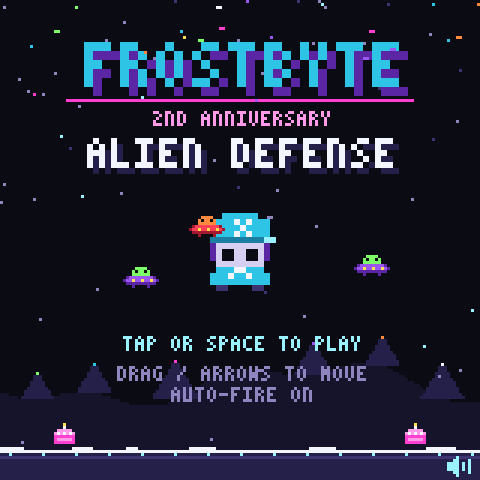
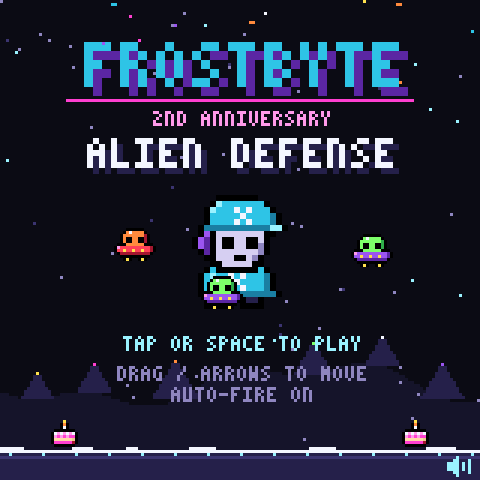
Restyle all characters to match Agent Delta's art
Black 1px outlines, flat colors and a darker right/bottom shade across the
board. New hand-drawn Frostbyte kid and alien saucers; bosses, orbs and
pickups get the outline + shade automatically via sprite() options.
Offsets and hitboxes updated for the new sizes; preview card regenerated.

diff --git a/index.html b/index.html
@@ -78,16 +78,42 @@ const P = {
 const CONFETTI = [P.m, P.c, P.y, P.g, P.P, P.w, P.o];
 
 /* ---------------------------------------------------------------- sprites */
-function sprite(rows, map) {
-  const h = rows.length, w = rows[0].length;
+/* One shared art style, matching Agent Delta's art: 1px black outlines ('Z'),
+   flat colors, one darker shade on the right/bottom edge.
+   sprite(rows, map, { outline, shade }) can add the outline and shade automatically. */
+const darken = (hex, f = 0.68) => '#' + [1, 3, 5].map(i => Math.round(parseInt(hex.slice(i, i + 2), 16) * f).toString(16).padStart(2, '0')).join('');
+const isDark = hex => parseInt(hex.slice(1, 3), 16) + parseInt(hex.slice(3, 5), 16) + parseInt(hex.slice(5, 7), 16) < 90;
+function sprite(rows, map, opt = {}) {
+  let h = rows.length, w = rows[0].length;
+  let g = rows.map(r => [...r].map(ch => { if (map && map[ch]) ch = map[ch]; return ch !== '.' && P[ch] ? P[ch] : null; }));
+  if (opt.shade) {
+    const at = (i, j) => (j >= 0 && j < h && i >= 0 && i < w) ? g[j][i] : null;
+    g = g.map((row, j) => row.map((c, i) => {
+      if (!c || isDark(c)) return c;
+      const edge = !at(i + 1, j) || !at(i, j + 1);
+      return edge && at(i - 1, j) && at(i, j - 1) ? darken(c) : c;
+    }));
+  }
+  if (opt.outline) {
+    const at = (i, j) => (j >= 0 && j < h && i >= 0 && i < w) ? g[j][i] : null;
+    const o = [];
+    for (let j = -1; j <= h; j++) {
+      const row = [];
+      for (let i = -1; i <= w; i++) {
+        const c = at(i, j);
+        row.push(c || (at(i - 1, j) || at(i + 1, j) || at(i, j - 1) || at(i, j + 1) ? '#000000' : null));
+      }
+      o.push(row);
+    }
+    g = o; w += 2; h += 2;
+  }
   const make = (white) => {
     const c = document.createElement('canvas');
     c.width = w; c.height = h;
     const x = c.getContext('2d');
     for (let j = 0; j < h; j++) for (let i = 0; i < w; i++) {
-      let ch = rows[j][i];
-      if (map && map[ch]) ch = map[ch];
-      if (ch !== '.' && P[ch]) { x.fillStyle = white ? '#ffffff' : P[ch]; x.fillRect(i, j, 1, 1); }
+      const col = g[j][i];
+      if (col) { x.fillStyle = white && !isDark(col) ? '#ffffff' : col; x.fillRect(i, j, 1, 1); }
     }
     return c;
   };
@@ -95,63 +121,81 @@ function sprite(rows, map) {
   return c;
 }
 const pad = (s, n) => { const l = (n - s.length) >> 1; return '.'.repeat(l) + s + '.'.repeat(n - s.length - l); };
+const STYLE = { outline: true, shade: true };
 
 function OVERLORD_ROWS(open) {
   return [
     pad('y...y...y', 23), pad('yy..yyy..yy', 23), pad('yyyyyyyyyyy', 23), pad('yryyyCyyyry', 23),
     pad('g'.repeat(13), 23), pad('g'.repeat(17), 23), pad('g'.repeat(19), 23),
-    pad('gkwkkkgggggggkkkwkg', 23), pad('gGkkkkkgggggkkkkkGg', 23), pad('gggGkkkkgggkkkkGggg', 23),
-    pad('g'.repeat(17), 23), pad(open ? 'gggggmkkkmggggg' : 'ggggggmmmgggggg', 23),
+    pad('gZwZZZgggggggZZZwZg', 23), pad('gGZZZZZgggggZZZZZGg', 23), pad('gggGZZZZgggZZZZGggg', 23),
+    pad('g'.repeat(17), 23), pad(open ? 'gggggmZZZmggggg' : 'ggggggZZZgggggg', 23),
     pad('g'.repeat(13), 23), pad('g'.repeat(11), 23), pad('G'.repeat(9), 23),
     pad('P'.repeat(15), 23), pad('PpPpPpPpPpPpPpPpP', 23),
   ];
 }
+// Frostbyte kid: cyan cap with a snowflake (brim to the right), purple hair, snowflake hoodie
 const PLAYER_ROWS = [
-  '...cccccc...',
-  '..cccwcwccc.',
-  '..ccccwcccc.',
-  '..cccwcwccc.',
-  '.dddddddddCC',
-  '.pssssssssp.',
-  '.pskksskksp.',
-  '.pskksskksp.',
-  '..ssssssss..',
-  '..cccwwccc..',
-  '.cccwccwccc.',
-  '.cccccccccc.',
-  '..NN....NN..',
+  '....ZZZZZZZ.....',
+  '...ZCcccccccZ...',
+  '..ZCcccwcwcccZ..',
+  '..ZcccccwccccdZ.',
+  '..ZccccwcwcccdZ.',
+  '.ZdddddddddddCCZ',
+  '.ZPZssssssssZZ..',
+  'ZPpZsZZssZZsZ...',
+  'ZPpZsZZssZZSZ...',
+  '.ZpZsssssssSZ...',
+  '..ZZsssZZsSZ....',
+  '...ZZsssssZZ....',
+  '..ZcZZZZZZZcZ...',
+  '.ZcCccwcwcccdZ..',
+  '.ZcCcccwccccdZ..',
+  '.ZcCccwcwcccdZ..',
+  '.ZddddddddddddZ.',
+  '..ZnnZ..ZnnZ....',
+  '..ZZZZ..ZZZZ....',
 ];
+// alien popping out of its saucer (A/B = blinking lights + thruster flicker)
+const UFO_A = [
+  '....ZZZZZZ....',
+  '...ZgwggggZ...',
+  '..ZgggggggGZ..',
+  '..ZgZZggZZGZ..',
+  '..ZgZZggZZGZ..',
+  '.ZZZggggggZZZ.',
+  'ZMPPPPPPPPPPpZ',
+  'ZPyPPyPPyPPypZ',
+  '.ZppppppppppZ.',
+  '..ZZZZZZZZZZ..',
+  '...ZoZ..ZoZ...',
+];
+const UFO_B = UFO_A.map((r, j) => j === 7 ? 'ZPPyPPyPPyPPpZ' : j === 10 ? '...ZyZ..ZyZ...' : r);
+const RED = { g: 'o', G: 'R', P: 'r', p: 'R' };
+const MOTHER_ROWS = (lights, jets) => [
+  pad('gggggggg', 28), pad('ggZZggggZZgg', 28), pad('CC' + 'g'.repeat(12) + 'CC', 28),
+  pad('C'.repeat(20), 28), pad('p' + 'P'.repeat(22) + 'p', 28), pad('p' + lights.repeat(6) + 'P', 28),
+  pad('p' + 'P'.repeat(24) + 'p', 28), pad('p'.repeat(22), 28), pad(jets, 28),
+];
+const SNATCH_ROWS = (lights) => [
+  pad('CCCCCC', 32), pad('CCggggCC', 32), pad('CggwwwwggC', 32), pad('CggwZZwggC', 32), pad('CCCggggggCCC', 32),
+  pad('o' + 'r'.repeat(24) + 'o', 32), pad('o' + lights.repeat(6) + 'o', 32), pad('R'.repeat(28), 32), pad('R'.repeat(20), 32),
+  pad('S', 32), pad('S', 32), pad('SSSSSSSSS', 32), pad('S.......S', 32), pad('S.......S', 32),
+];
+
 const SPR = {
   player: sprite(PLAYER_ROWS),
-  ufo1a: sprite(['....gggg....', '...gkggkg...', '...gggggg...', '.pPPPPPPPPp.', 'pPyPPyPPyPPp', '.pppppppppp.', '...p....p...']),
-  ufo1b: sprite(['....gggg....', '...gkggkg...', '...gggggg...', '.pPPPPPPPPp.', 'pPPyPPyPPyPp', '.pppppppppp.', '...p....p...']),
-  ufo2a: sprite(['....gggg....', '...gkggkg...', '...gggggg...', '.pPPPPPPPPp.', 'pPyPPyPPyPPp', '.pppppppppp.', '...p....p...'], { g: 'o', P: 'r', p: 'R' }),
-  ufo2b: sprite(['....gggg....', '...gkggkg...', '...gggggg...', '.pPPPPPPPPp.', 'pPPyPPyPPyPp', '.pppppppppp.', '...p....p...'], { g: 'o', P: 'r', p: 'R' }),
-  bossA: sprite([
-    pad('gggggggg', 28), pad('ggkkggggkkgg', 28), pad('CC' + 'g'.repeat(12) + 'CC', 28),
-    pad('C'.repeat(20), 28), pad('p' + 'P'.repeat(22) + 'p', 28), pad('p' + 'PPPy'.repeat(6) + 'P', 28),
-    pad('p' + 'P'.repeat(24) + 'p', 28), pad('p'.repeat(22), 28), pad('m.....m.....m.....m', 28),
-  ]),
-  bossB: sprite([
-    pad('gggggggg', 28), pad('ggkkggggkkgg', 28), pad('CC' + 'g'.repeat(12) + 'CC', 28),
-    pad('C'.repeat(20), 28), pad('p' + 'P'.repeat(22) + 'p', 28), pad('p' + 'PPyP'.repeat(6) + 'P', 28),
-    pad('p' + 'P'.repeat(24) + 'p', 28), pad('p'.repeat(22), 28), pad('M.....M.....M.....M', 28),
-  ]),
+  ufo1a: sprite(UFO_A), ufo1b: sprite(UFO_B),
+  ufo2a: sprite(UFO_A, RED), ufo2b: sprite(UFO_B, RED),
+  // boss 1: Mothership
+  bossA: sprite(MOTHER_ROWS('PPPy', 'm.....m.....m.....m'), null, STYLE),
+  bossB: sprite(MOTHER_ROWS('PPyP', 'M.....M.....M.....M'), null, STYLE),
   // boss 2: Cake Snatcher (claw carries the stolen party cake, drawn separately)
-  snatchA: sprite([
-    pad('CCCCCC', 32), pad('CCggggCC', 32), pad('CggwwwwggC', 32), pad('CggwkkwggC', 32), pad('CCCggggggCCC', 32),
-    pad('o' + 'r'.repeat(24) + 'o', 32), pad('o' + 'ryrr'.repeat(6) + 'o', 32), pad('R'.repeat(28), 32), pad('R'.repeat(20), 32),
-    pad('S', 32), pad('S', 32), pad('SSSSSSSSS', 32), pad('S.......S', 32), pad('S.......S', 32),
-  ]),
-  snatchB: sprite([
-    pad('CCCCCC', 32), pad('CCggggCC', 32), pad('CggwwwwggC', 32), pad('CggwkkwggC', 32), pad('CCCggggggCCC', 32),
-    pad('o' + 'r'.repeat(24) + 'o', 32), pad('o' + 'rrry'.repeat(6) + 'o', 32), pad('R'.repeat(28), 32), pad('R'.repeat(20), 32),
-    pad('S', 32), pad('S', 32), pad('SSSSSSSSS', 32), pad('S.......S', 32), pad('S.......S', 32),
-  ]),
+  snatchA: sprite(SNATCH_ROWS('ryrr'), null, STYLE),
+  snatchB: sprite(SNATCH_ROWS('rrry'), null, STYLE),
   // boss 3: Alien Overlord (B = mouth open, eyes glowing red before a ring attack)
-  overA: sprite(OVERLORD_ROWS(false)),
-  overB: sprite(OVERLORD_ROWS(true), { w: 'r' }),
-  orb: sprite(['.PMP.', 'PMwMP', 'MwwwM', 'PMwMP', '.PMP.']),
+  overA: sprite(OVERLORD_ROWS(false), null, STYLE),
+  overB: sprite(OVERLORD_ROWS(true), { w: 'r' }, STYLE),
+  orb: sprite(['..ZZZ..', '.ZMwMZ.', 'ZMwwMPZ', 'ZMMMMPZ', 'ZPMMPpZ', '.ZPppZ.', '..ZZZ..']),
   // ally: Agent Delta from Planet Delta (pixel-for-pixel from the character art, 19x18)
   ally: sprite([
     '..KKK.KKKKKKKKKK...',
@@ -173,11 +217,12 @@ const SPR = {
     '.KKwwwwLLLlcccwwK..',
     '.KwwwwwwwLLlwwwwwK.',
   ], { K: 'Z', c: 'q', w: 'W' }),
-  cake: sprite(['...y...', '...w...', '.MMMMM.', 'MwMwMwM', 'mmmmmmm', 'mMMMMMm', 'mmmmmmm']),
-  flake: sprite(['C..C..C', '.C.C.C.', '..CwC..', 'CCwwwCC', '..CwC..', '.C.C.C.', 'C..C..C']),
-  heart: sprite(['.rr.rr.', 'rMrrrrr', 'rrrrrrr', 'rrrrrrr', '.rrrrr.', '..rrr..', '...r...']),
-  heartS: sprite(['.r.r.', 'rrrrr', 'rrrrr', '.rrr.', '..r..']),
-  heartE: sprite(['.n.n.', 'nnnnn', 'nnnnn', '.nnn.', '..n..']),
+  // pickups (9px, outlined)
+  cake: sprite(['....y....', '...ZoZ...', '...ZwZ...', '.ZZZZZZZ.', 'ZwMwMwMwZ', 'ZMmMmMmmZ', 'ZFFFFFFfZ', 'ZmmmmmmRZ', '.ZZZZZZZ.']),
+  flake: sprite(['....Z....', '...ZwZ...', '..ZwCCZ..', '.ZwCCCdZ.', 'ZwCCwCCdZ', '.ZCCCCdZ.', '..ZCCdZ..', '...ZdZ...', '....Z....']),
+  heart: sprite(['.ZZZ.ZZZ.', 'ZrwrZrrrZ', 'ZrrrrrrRZ', 'ZrrrrrrRZ', '.ZrrrrRZ.', '..ZrrRZ..', '...ZRZ...', '....Z....']),
+  heartS: sprite(['.ZZ.ZZ.', 'ZrwZrrZ', 'ZrrrrRZ', '.ZrrRZ.', '..ZRZ..', '...Z...']),
+  heartE: sprite(['.ZZ.ZZ.', 'ZnnZnnZ', 'ZnnnnnZ', '.ZnnnZ.', '..ZnZ..', '...Z...']),
   snow: sprite(['.C.', 'CwC', '.C.']),
 };
 
@@ -475,7 +520,7 @@ let player, bullets, ebullets, enemies, pickups, parts, boss;
 parts = [];
 
 function reset() {
-  player = { x: 80, y: 136, tx: 80, fire: 0, triple: 0, shield: 0, inv: 1 };
+  player = { x: 80, y: 131, tx: 80, fire: 0, triple: 0, shield: 0, inv: 1 };
   bullets = []; ebullets = []; enemies = []; pickups = []; parts = []; boss = null;
   Object.assign(G, { score: 0, newBest: false, lives: 3, wave: 1, kills: 0, waveKills: 0, spawn: 1.2, bossCount: 0, shake: 0, flash: 0, overT: 0 });
   setTheme(0); bgState.nameT = 0;
@@ -972,12 +1017,12 @@ function update(dt) {
     if (e.t === 2 || G.wave >= 3) {
       e.shoot -= dt;
       if (e.shoot <= 0 && e.y > 4 && e.y < 112) {
-        ebullets.push({ x: e.x, y: e.y + 7, vx: clamp((pl.x - e.x) * 0.3, -30, 30), vy: 52 + G.wave * 3 });
+        ebullets.push({ x: e.x, y: e.y + 9, vx: clamp((pl.x - e.x) * 0.3, -30, 30), vy: 52 + G.wave * 3 });
         e.shoot = e.t === 2 ? rnd(1.6, 3) : rnd(3, 5.5);
       }
     }
     // collide with player
-    if (Math.abs(e.x - pl.x) < 10 && e.y + 7 > pl.y + 2 && e.y < pl.y + 12) {
+    if (Math.abs(e.x - pl.x) < 11 && e.y + 9 > pl.y + 4 && e.y < pl.y + 17) {
       enemies.splice(i, 1); burst(e.x, e.y + 3, [P.g, P.P], 12, 50); SFX.boom(); hurtPlayer(); continue;
     }
     // landed: lose a heart
@@ -1010,14 +1055,14 @@ function update(dt) {
   for (let i = ebullets.length - 1; i >= 0; i--) {
     const b = ebullets[i]; b.x += b.vx * dt; b.y += b.vy * dt;
     if (b.y > 152 || b.y < -6 || b.x < -6 || b.x > W + 6) { ebullets.splice(i, 1); continue; }
-    if (Math.abs(b.x - pl.x) < 5 && b.y > pl.y + 2 && b.y < pl.y + 13) { ebullets.splice(i, 1); hurtPlayer(); }
+    if (Math.abs(b.x - pl.x) < 6 && b.y > pl.y + 4 && b.y < pl.y + 18) { ebullets.splice(i, 1); hurtPlayer(); }
   }
 
   // pickups
   for (let i = pickups.length - 1; i >= 0; i--) {
     const k = pickups[i]; k.t += dt; k.y += 26 * dt;
     if (k.y > 146) { pickups.splice(i, 1); continue; }
-    if (Math.abs(k.x - pl.x) < 9 && k.y + 7 > pl.y && k.y < pl.y + 13) {
+    if (Math.abs(k.x - pl.x) < 10 && k.y + 9 > pl.y && k.y < pl.y + 18) {
       pickups.splice(i, 1); SFX.power();
       burst(k.x, k.y + 3, CONFETTI, 18, 50);
       if (k.type === 'cake') { pl.triple = 9; banner('PARTY CAKE!', 'TRIPLE SNOWBALLS', 1.2, P.M); }
@@ -1058,13 +1103,13 @@ function drawMute() {
 }
 function drawPlayer(x, y, sc = 1) {
   const s = SPR.player;
-  ctx.drawImage(s, Math.round(x - 6 * sc), Math.round(y), 12 * sc, 13 * sc);
+  ctx.drawImage(s, Math.round(x - (s.width >> 1) * sc), Math.round(y), s.width * sc, s.height * sc);
 }
 function drawShield(x, y) {
   ctx.fillStyle = ((G.t * 8) | 0) % 2 ? P.C : P.c;
   for (let a = 0; a < 20; a++) {
     const ang = a / 20 * 6.283 + G.t * 2;
-    ctx.fillRect(Math.round(x + Math.cos(ang) * 10), Math.round(y + 6 + Math.sin(ang) * 10), 1, 1);
+    ctx.fillRect(Math.round(x + Math.cos(ang) * 12), Math.round(y + 9 + Math.sin(ang) * 12), 1, 1);
   }
 }
 
@@ -1104,7 +1149,7 @@ function drawTitle() {
 
   // hero + saucers
   const bob = Math.round(Math.sin(t * 3) * 2);
-  drawPlayer(80, 72 + bob, 2);
+  drawPlayer(80, 67 + bob, 2);
   const f = ((t * 6) | 0) % 2;
   for (let i = 0; i < 3; i++) {
     const a = t * 1.3 + i * 2.094;
@@ -1112,8 +1157,8 @@ function drawTitle() {
     ctx.drawImage(i === 1 ? (f ? SPR.ufo2a : SPR.ufo2b) : (f ? SPR.ufo1a : SPR.ufo1b), Math.round(ux - 6), Math.round(uy));
   }
   // birthday cake on the snow
-  ctx.drawImage(SPR.cake, 18, 141, 7, 7);
-  ctx.drawImage(SPR.cake, 135, 141, 7, 7);
+  ctx.drawImage(SPR.cake, 17, 140);
+  ctx.drawImage(SPR.cake, 134, 140);
 
   if (((t * 2.2) | 0) % 2 === 0) text('TAP OR SPACE TO PLAY', 80, 112, P.C, 1, 'c');
   text('DRAG / ARROWS TO MOVE', 80, 122, P.S, 1, 'c');
@@ -1126,16 +1171,16 @@ function drawBoss(f) {
   if (b.type === 0) {
     let s = f ? SPR.bossA : SPR.bossB;
     if (b.hit > 0) s = s.white;
-    ctx.drawImage(s, bx - 14, by);
+    ctx.drawImage(s, bx - 15, by - 1);
     ctx.fillStyle = P.G; // tractor beam shimmer
     const ph = (G.t * 12) | 0;
     for (let j = 0; j < 18; j++) {
       const half = 2 + (j >> 2);
-      for (let i = -half; i <= half; i++) if (((i + j + ph) & 3) === 0) ctx.fillRect(bx + i, by + 9 + j, 1, 1);
+      for (let i = -half; i <= half; i++) if (((i + j + ph) & 3) === 0) ctx.fillRect(bx + i, by + 10 + j, 1, 1);
     }
   } else if (b.type === 1) {
     if (b.beam > 0) {
-      const x = Math.round(b.beamX), top = by + 19;
+      const x = Math.round(b.beamX), top = by + 22;
       if (b.beam > 0.8) { // warning
         if (((G.t * 14) | 0) % 2) {
           ctx.fillStyle = P.r;
@@ -1151,16 +1196,16 @@ function drawBoss(f) {
     }
     let s = f ? SPR.snatchA : SPR.snatchB;
     if (b.hit > 0) s = s.white;
-    ctx.drawImage(s, bx - 15, by);
-    ctx.drawImage(SPR.cake, bx - 3, by + 12); // the stolen cake
+    ctx.drawImage(s, bx - 16, by - 1);
+    ctx.drawImage(SPR.cake, bx - 4, by + 12); // the stolen cake
   } else {
     const back = [], front = [];
     for (const o of b.orbs) if (o.hp > 0) (Math.sin(o.a) < 0 ? back : front).push(orbPos(b, o));
-    for (const p of back) ctx.drawImage(SPR.orb, Math.round(p.x) - 2, Math.round(p.y) - 2);
+    for (const p of back) ctx.drawImage(SPR.orb, Math.round(p.x) - 3, Math.round(p.y) - 3);
     let s = b.ring < 0.45 ? SPR.overB : SPR.overA;
     if (b.hit > 0) s = s.white;
-    ctx.drawImage(s, bx - 11, by);
-    for (const p of front) ctx.drawImage(SPR.orb, Math.round(p.x) - 2, Math.round(p.y) - 2);
+    ctx.drawImage(s, bx - 12, by - 1);
+    for (const p of front) ctx.drawImage(SPR.orb, Math.round(p.x) - 3, Math.round(p.y) - 3);
   }
   // hp bar + name
   text(BOSS_NAMES[b.type] + (b.rep ? ' LV' + (b.rep + 1) : ''), 80, 8, P.S, 1, 'c');
@@ -1177,13 +1222,13 @@ function drawPlay() {
   for (const k of pickups) {
     const s = SPR[k.type], yy = Math.round(k.y + Math.sin(k.t * 6));
     if (((k.t * 10) | 0) % 6 === 0) { ctx.fillStyle = P.w; ctx.fillRect(k.x - 5, yy + 3, 1, 1); ctx.fillRect(k.x + 5, yy + 3, 1, 1); }
-    ctx.drawImage(s, Math.round(k.x - 3), yy);
+    ctx.drawImage(s, Math.round(k.x - 4), yy);
   }
   // enemies
   for (const e of enemies) {
     let s = e.t === 2 ? (f ? SPR.ufo2a : SPR.ufo2b) : (f ? SPR.ufo1a : SPR.ufo1b);
     if (e.hit > 0) s = s.white;
-    ctx.drawImage(s, Math.round(e.x - 6), Math.round(e.y));
+    ctx.drawImage(s, Math.round(e.x - 7), Math.round(e.y - 2));
   }
   // boss
   if (boss) drawBoss(f);
@@ -1192,6 +1237,7 @@ function drawPlay() {
   for (const b of bullets) ctx.drawImage(SPR.snow, Math.round(b.x - 1), Math.round(b.y - 1));
   drawAllyShots();
   for (const b of ebullets) {
+    ctx.fillStyle = P.Z; ctx.fillRect(Math.round(b.x - 2), Math.round(b.y - 2), 4, 5);
     ctx.fillStyle = f ? P.m : P.M; ctx.fillRect(Math.round(b.x - 1), Math.round(b.y - 1), 2, 3);
     ctx.fillStyle = P.w; ctx.fillRect(Math.round(b.x - 1), Math.round(b.y), 1, 1);
   }
@@ -1204,9 +1250,9 @@ function drawPlay() {
   text(String(G.score).padStart(6, '0'), 2, 2, P.w, 1, 'l', P.n);
   text('W' + G.wave, 80, 2, P.S, 1, 'c');
   for (let i = 0; i < 5; i++) {
-    const x = 153 - i * 6;
-    if (i < G.lives) ctx.drawImage(SPR.heartS, x, 2);
-    else if (i < 3) ctx.drawImage(SPR.heartE, x, 2);
+    const x = 152 - i * 7;
+    if (i < G.lives) ctx.drawImage(SPR.heartS, x, 1);
+    else if (i < 3) ctx.drawImage(SPR.heartE, x, 1);
   }
   let by = 9;
   if (pl.triple > 0) { ctx.fillStyle = P.m; ctx.fillRect(2, by, Math.ceil(pl.triple / 9 * 24), 1); by += 2; }
@@ -1327,7 +1373,7 @@ function frame(now) {
 requestAnimationFrame(frame);
 
 // test hook: open with ?debug to poke at state from the console
-if (/[?&]debug\b/.test(location.search)) window.__fb = { G, get player() { return player; }, get ally() { return ally; }, talk, say, get boss() { return boss; }, get ebullets() { return ebullets; }, get bullets() { return bullets; }, startGame, spawnBoss, nextWave, gameOver, bossDefeated, bgState, setTheme, THEMES, drawBackground, updateBg, update, draw };
+if (/[?&]debug\b/.test(location.search)) window.__fb = { G, SPR, get player() { return player; }, get ally() { return ally; }, talk, say, get boss() { return boss; }, get ebullets() { return ebullets; }, get bullets() { return bullets; }, startGame, spawnBoss, nextWave, gameOver, bossDefeated, bgState, setTheme, THEMES, drawBackground, updateBg, update, draw };
 })();
 </script>
 </body>
